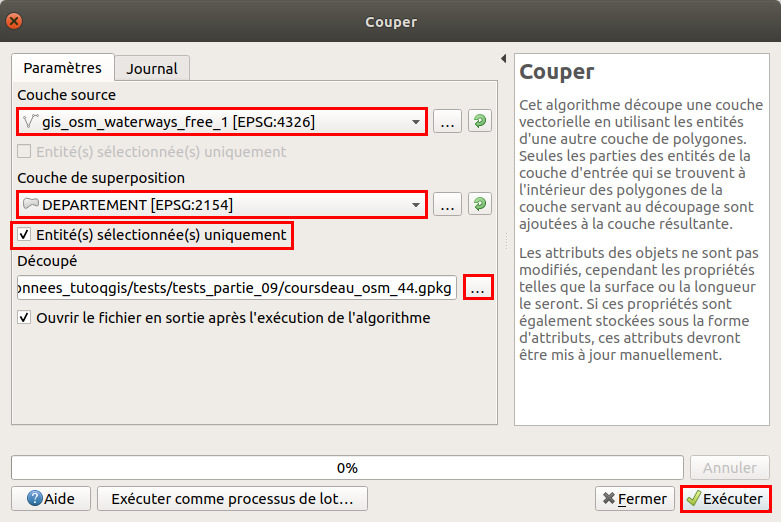
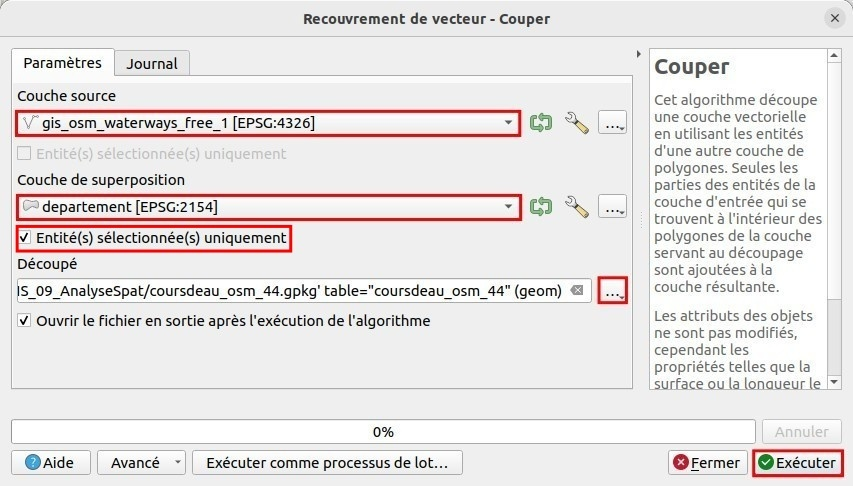
maj partie 9.1

diff --git a/09_01_vecteur.php b/09_01_vecteur.php
@@ -60,7 +60,7 @@
 				<h4>Découpage, mode d'emploi<a class="headerlink" id="IX11b" href="#IX11b"></a></h4>
 				
     				<div class="manip">
-    					<p>Ouvrez un nouveau projet QGIS. Ajoutez les couches <em class="data"><a href="donnees/TutoQGIS_09_AnalyseSpat.zip">DEPARTEMENT</a></em> et <em class="data"><a href="donnees/TutoQGIS_09_AnalyseSpat.zip">gis_osm_waterways_free_1</a></em>.</p>
+    					<p>Ouvrez un nouveau projet QGIS. Ajoutez les couches <em class="data"><a href="donnees/TutoQGIS_09_AnalyseSpat.zip">departement</a></em> et <em class="data"><a href="donnees/TutoQGIS_09_AnalyseSpat.zip">gis_osm_waterways_free_1</a></em>.</p>
     					<p>Le but sera donc de découper les cours d'eau par le département 44, pour ne garder que les cours d'eau à l'intérieur de ce département. Cette opération crée une nouvelle couche.</p>
     					<p><img class="icone" src="illustrations/1_1_selection_icone.jpg" alt="menu projet, sauvegarder sous..." >Tout d'abord, sélectionnez le département 44 au moyen de l'outil de sélection :</p>
     					<figure>
@@ -80,9 +80,9 @@
     					</figure>
     					<ul>
     						<li class="espace">Couche source : choisir la couche à découper, en l'occurrence les cours d'eau : <em class="data">gis_osm_waterways_free_1</em></li>
-    						<li class="espace">Couche de superposition : choisir la couche servant de masque de découpe, en l'occurrence <em class="data">DEPARTEMENT</em></li>
+    						<li class="espace">Couche de superposition : choisir la couche servant de masque de découpe, en l'occurrence <em class="data">departement</em></li>
     						<li class="espace">Entité(s) sélectionnée(s) uniquement : <b>cochez cette case</b> pour ne garder que les cours d'eau à l'intérieur du département sélectionné, et non à l'intérieur de tous les départements</li>
-    						<li class="espace">Découpé : cliquez sur <b>...</b>, sélectionnez l'option <b>Enregistrer vers un fichier</b>, et choisissez l'endroit où la couche sera créée, et son nom : <em class="data">coursdeau_osm_44</em> (au format GeoPackage)</li>
+    						<li class="espace">Découpé : cliquez sur <b>...</b>, sélectionnez l'option <b>Enregistrer dans un GeoPackage...</b>, et choisissez l'endroit où la couche sera créée, et son nom, par exemple : <em class="data">coursdeau_osm_44</em>. Comme il s'agit d'un <a href="01_03_formats.php#I31b" >format GPKG</a>, il faut spécifier 2 fois le nom : pour la base, et pour la couche. Vous pouvez indiquer le même nom les 2 fois.</li>
     						<li class="espace">Cliquez sur <b>Exécuter</b></li>
     					</ul>
     					<p>Patientez... La nouvelle couche est ajoutée :</p>
@@ -131,7 +131,7 @@
 							<p><label for="faq-2">Comment faire pour sélectionner le cours d'eau dont le nom est <b>L'Erdre</b> de la couche <em class="data">coursdeau_osm_44</em>&nbsp;?</label></p>
 							<p class="reponse">2 méthodes au choix :</p>
 							<p class="reponse">1/ Sélectionner à la main dans la table attributaire les lignes où la valeur du champ <b>name</b> est <b>L'Erdre</b> (pour les trouver plus facilement, cliquez sur l'intitulé de colonne <b>name</b> pour classer les lignes par nom)</p>
-						    <p class="reponse">2/ <a href="06_01_req_attrib.php">utiliser une requête attributaire</a> : <b>"name"  =  'L\'Erdre'</b>. Attention, le caractère <b>\ (antislash)</b> est nécessaire avant l'apostrophe, pour que ce dernier ne soit pas considéré comme la fin de la chaîne de caractères.</p>
+						    <p class="reponse">2/ <a href="06_01_req_attrib.php">utiliser une requête attributaire</a> : <b>"name"  =  'L''Erdre'</b>. Attention, l'apostrophe doit être doublé pour que ce dernier ne soit pas considéré comme la fin de la chaîne de caractères. Il est aussi possible d'utiliser le caractère <b>\ (antislash)</b> : "name"  =  'L\'Erdre'.</p>
 						</div>
 						<figure>
 						  <a href="illustrations/9_1_selection_erdre.jpg" >
@@ -144,13 +144,19 @@
 				<h4>Création d'une zone tampon autour de la sélection<a class="headerlink" id="IX12c" href="#IX12c"></a></h4>
 				
 					<div class="manip">
-						<p>Pour créer la zone tampon : <b>Boîte à outils de traitements &#8594; Géométrie vectorielle &#8594; Tampon</b></p>
+						<p>Pour créer la zone tampon : 
+						  <a class="thumbnail_bottom" href="#thumb">Boîte à outils de traitements &#8594; Géométrie vectorielle &#8594; Tampon
+              	<span>
+              		<img src="illustrations/9_1_emplacement_outil_tampon.jpg" alt="Outil Tampon dans la boîte à outils, en tapant 'tampon' dans la barre de recherche" height="300" >
+              	</span>
+              </a>
+          	</p>
 						<figure>
 						  <a href="illustrations/9_1_tampon_degres.jpg" >
 							<img src="illustrations/9_1_tampon_degres.jpg" alt="Paramètrage de l'outil zone tampon, où l'on voit que les unités de la couche coursdeau_osm_44 sont les degrés" width="600" >
 						  </a>
 						</figure>
-                        <p>Sélectionnez la couche source : <em class="data">coursdeau_osm_44</em>. En-dessous, la distance permet de paramétrer la taille de la zone tampon.</p>
+            <p>Sélectionnez la couche source : <em class="data">coursdeau_osm_44</em>. En-dessous, la distance permet de paramétrer la taille de la zone tampon.</p>
                         <p>Vous pouvez voir que <b>les unités de taille sont les degrés&nbsp;!</b> En effet, notre couche de cours d'eau étant en WGS84, il s'agit des unités de cette couche.</p>
                     </div>
                     
@@ -158,7 +164,11 @@
                     
                     <div class="manip">
                         <p>Fermez la fenêtre de l'outil de zone tampon <b>sans créer la zone tampon</b>.</p>
-                        <p><a href="02_04_changer_systeme.php#II42">Modifiez le SCR</a> de la couche <em class="data">coursdeau_osm_44</em>, pour passer du WGS84 vers le <b>RGF93/Lambert-93 (code EPSG 2154)</b> grâce à l'outil <b>Reprojeter une couche</b> (Outils généraux pour les vecteurs) de la boîte à outils.</p>
+                        <p><a href="02_04_changer_systeme.php#II42">Modifiez le SCR</a> de la couche <em class="data">coursdeau_osm_44</em>, pour passer du WGS84 vers le <b>RGF93/Lambert-93 (code EPSG 2154)</b> grâce à l'outil <a class="thumbnail_bottom" href="#thumb">Reprojeter une couche
+	<span>
+		<img src="illustrations/9_1_emplacement_reprojeter.jpg" alt="Outil Reprojeter dans la boîte à outils, en tapant 'repro' dans la barre de recherche" height="300" >
+	</span>
+</a>(Outils généraux pour les vecteurs) de la boîte à outils.</p>
                         <p>Nommez la nouvelle couche <em class="data">coursdeau_osm_44_L93</em>.</p>
                     	<p>Vérifiez dans les propriétés de cette nouvelle couche, rubrique <b>Source</b>, que son SCR soit bien le Lambert 93 :</p>
                     	<figure>
@@ -166,6 +176,7 @@
     							<img src="illustrations/9_1_verif_l93.jpg" alt="Propriétés de la couche, rubrique Source : le SCR est le RGF93/Lambert-93" width="450" >
     						</a>
     					</figure>
+    					<p>Vérifiez également que cette couche se superpose bien à la couche d'origine <em class="data">coursdeau_osm_44</em>.</p>
     				</div>
 				    <p>Attention, si le SCR n'est pas le bon, ne le modifiez pas ici&nbsp;! Utilisez l'outil <b>Reprojeter une couche</b> de la boîte à outils. Modifier le SCR et <a href="02_04_changer_systeme.php#II43">redéfinir le SCR</a> sont 2 manipulations différentes.</p>
 				    
@@ -182,7 +193,7 @@
 							<li class="espace">Entité(s) sélectionnée(s) uniquement : <b>cocher cette case</b> afin de ne créer de zone tampon qu'autour de l'Erdre</li>
 							<li class="espace">Distance tampon : la couche étant projetée en Lambert 93, son unité est le mètre. Choisissez une distance de <b>100 mètres</b>. Le bouton tout à droite permet de faire varier la largeur de la zone en fonction des valeurs d'un champ ou d'une expression&nbsp;; nous ne l'utiliserons pas ici</li>
 							<li class="espace"><b>Regrouper le résultat :</b> cette case permet de fusionner toutes les zones tampon qui seront créées&nbsp;; sinon, une zone tampon est créée par entité de la couche source. Cochez cette case pour cet exercice (cf. image ci-dessous)</li>
-							<li class="espace">Mis en tampon : cliquez tout à droite sur le bouton <b>... &#8594; Enregistrer vers un fichier...</b> choisir le nom : <em class="data">Erdre_tampon100m.gpkg</em> par exemple et l'emplacement de la couche qui sera créée</li>
+							<li class="espace">Mis en tampon : cliquez tout à droite sur le bouton <b>... &#8594; Enregistrer dans un GeoPackage...</b> choisir le nom : <em class="data">Erdre_tampon100m.gpkg</em> par exemple (2 fois) et l'emplacement de la couche qui sera créée</li>
 						</ul>
 						<figure>
     						<a href="illustrations/9_1_tampon_nonregroupe.jpg" >
@@ -260,7 +271,7 @@
 				    <p>L'idée sera ici de créer la couche d'intersection entre les communes et la zone tampon autour de l'Erdre créée ci-dessus. Ceci pourrait permettre de visualiser par exemple pour chaque commune la partie qui se trouve en zone inondable.</p>
 					
 					<div class="manip">
-					    <p>Ajoutez la couche <em class="data"><a href="donnees/TutoQGIS_09_AnalyseSpat.zip">COMMUNE_44</a></em> au projet.</p>
+					    <p>Ajoutez la couche <em class="data"><a href="donnees/TutoQGIS_09_AnalyseSpat.zip">commune_44</a></em> au projet.</p>
 						<p><b>Boîte à outils de traitements &#8594; Recouvrement de vecteur &#8594; Intersection</b>
 						:</p>
 						<figure>
@@ -269,7 +280,7 @@
 							</a>
 						</figure>
 						<ul>
-							<li class="espace">Couche source : choisir la couche <em class="data">COMMUNE_44</em>. Ne pas cocher la case &#171; Entités sélectionnées uniquement &#187; puisqu'il s'agit d'intersecter toutes les communes</li>
+							<li class="espace">Couche source : choisir la couche <em class="data">commune_44</em>. Ne pas cocher la case &#171; Entités sélectionnées uniquement &#187; puisqu'il s'agit d'intersecter toutes les communes</li>
 							<li class="espace">Couche de superposition : choisir la couche <em class="data">Erdre_tampon_100m</em>. Idem, ne pas cocher la case &#171; Entités sélectionnées uniquement &#187;</li>
 							<li class="espace">Champs d'entrée à conserver : cette option permet de choisir les champs de la couche source à conserver. Ici, nous garderons tous les champs et nous n'utiliserons donc pas ce paramètre</li>
 							<li class="espace">Champs à conserver : cette option permet de choisir les champs de la couche de superposition. Ici, nous garderons tous les champs et nous n'utiliserons donc pas ce paramètre</li>
@@ -284,6 +295,8 @@
 						</figure>
 						<p>Ouvrez la table attributaire de cette couche : notez que les champs des deux couches sont présents.</p>
 					</div>
+					
+					<p>L'intersection est une opération symétrique : on peut inverser l'ordre des 2 couches dans l'outil d'intersection, et le résultat sera la même, à ceci près que les champs de la première couche sont toujours en premier dans la table attributaire.</p>
 					
 				<h4>Si on voulait aller plus loin...<a class="headerlink" id="IX13c" href="#IX13c"></a></h4>
 				
@@ -309,8 +322,10 @@
   					</a>
   				</figure>
   				<p>Dans cette fenêtre, chaque ligne correspond à une fois où vous avez lancé un outil de la boîte à outils, le tout classé par ordre chronologique.</p>
-  				<p>Cliquez sur une des lignes&nbsp;: dans la partie basse de la fenêtre, vous pouvez voir la commande Python correspondante, que le logiciel a lancé pour exécuter l'outil (voir partie <a href="11_04_python.php" >XI.4</a>).</p>
-  				<p><b>Si vous double-cliquez sur une ligne, la fenêtre de l'outil se lance avec exactement le même paramétrage que celui utilisé cette fois-là.</b> Ce qui est très utile en particulier pour les outils avec beaucoup de paramètres, par exemple quand on fait des tests et qu'on est amené à relancer plusieurs fois un outil.</p>
+  				<p>Cliquez sur une des lignes&nbsp;: dans la partie basse de la fenêtre, vous pouvez voir des informations telles que la date d'exécution, les paramètres en entrée, s'il y a eu des erreurs...</p>
+  				<p>En cliquant sur le petit triangle devant une ligne de la partie haute de la fenêtre, on peut peut voir notamment la <a href="11_04_python.php">commande Python</a> correspondante, que le logiciel a lancé pour exécuter l'outil.</p>
+  				<p><b>Si vous double-cliquez sur une ligne, la fenêtre de l'outil s'ouvre avec exactement le même paramétrage que celui utilisé cette fois-là.</b> Vous pouvez ensuite relancer l'outil tel quel, ou bien modifier les paramètres puis le relancer.</p>
+  				<p>L'historique est très utile en particulier pour les outils avec beaucoup de paramètres, par exemple quand on fait des tests et qu'on est amené à relancer plusieurs fois un outil, ou bien simplement pour se rappeler de ce qu'on a fait.</p>
 			 </div>
 
 			<br>
